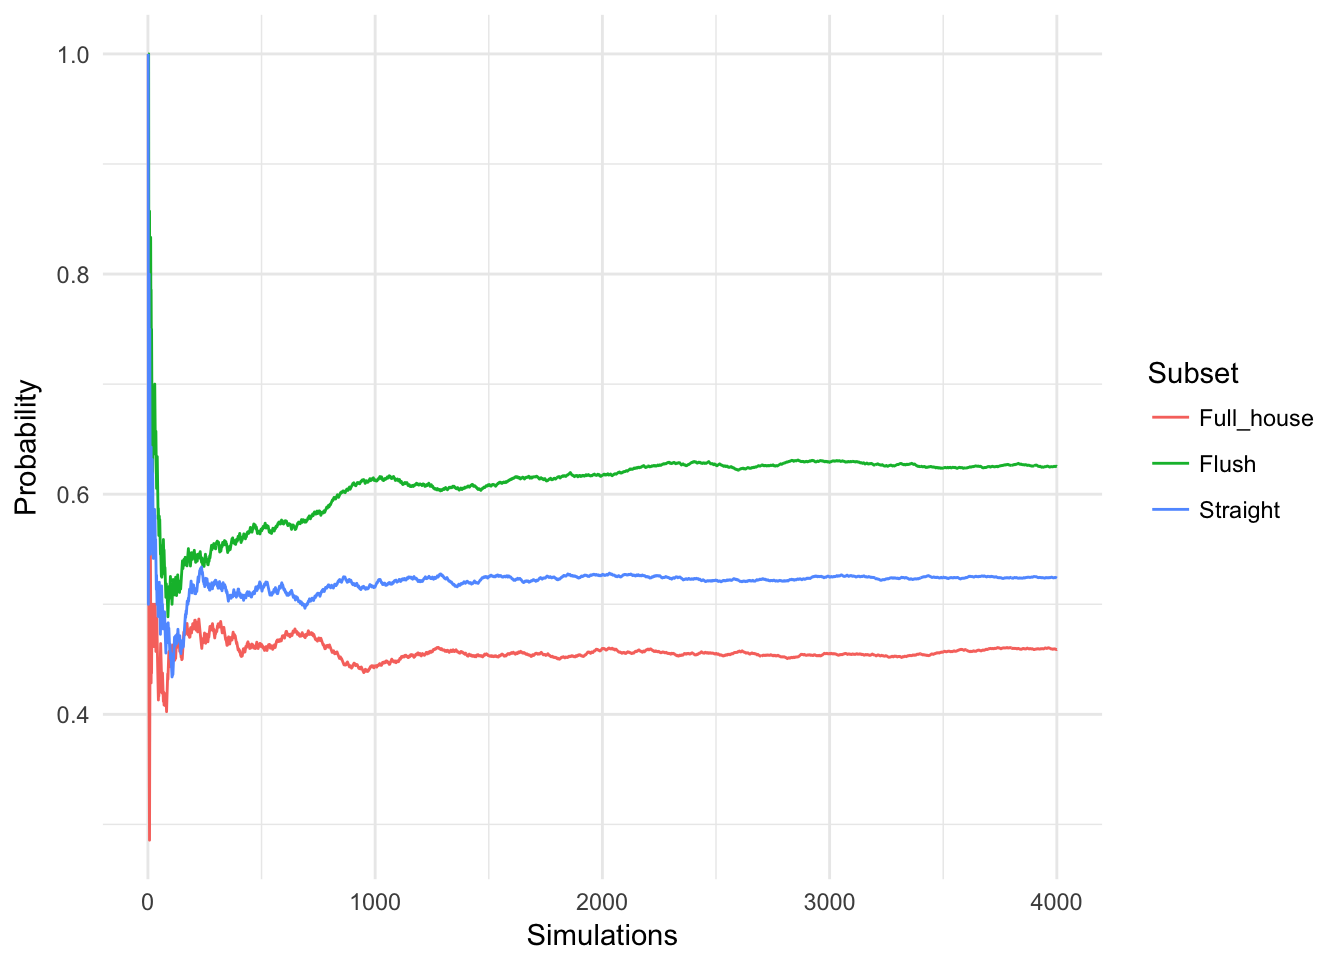
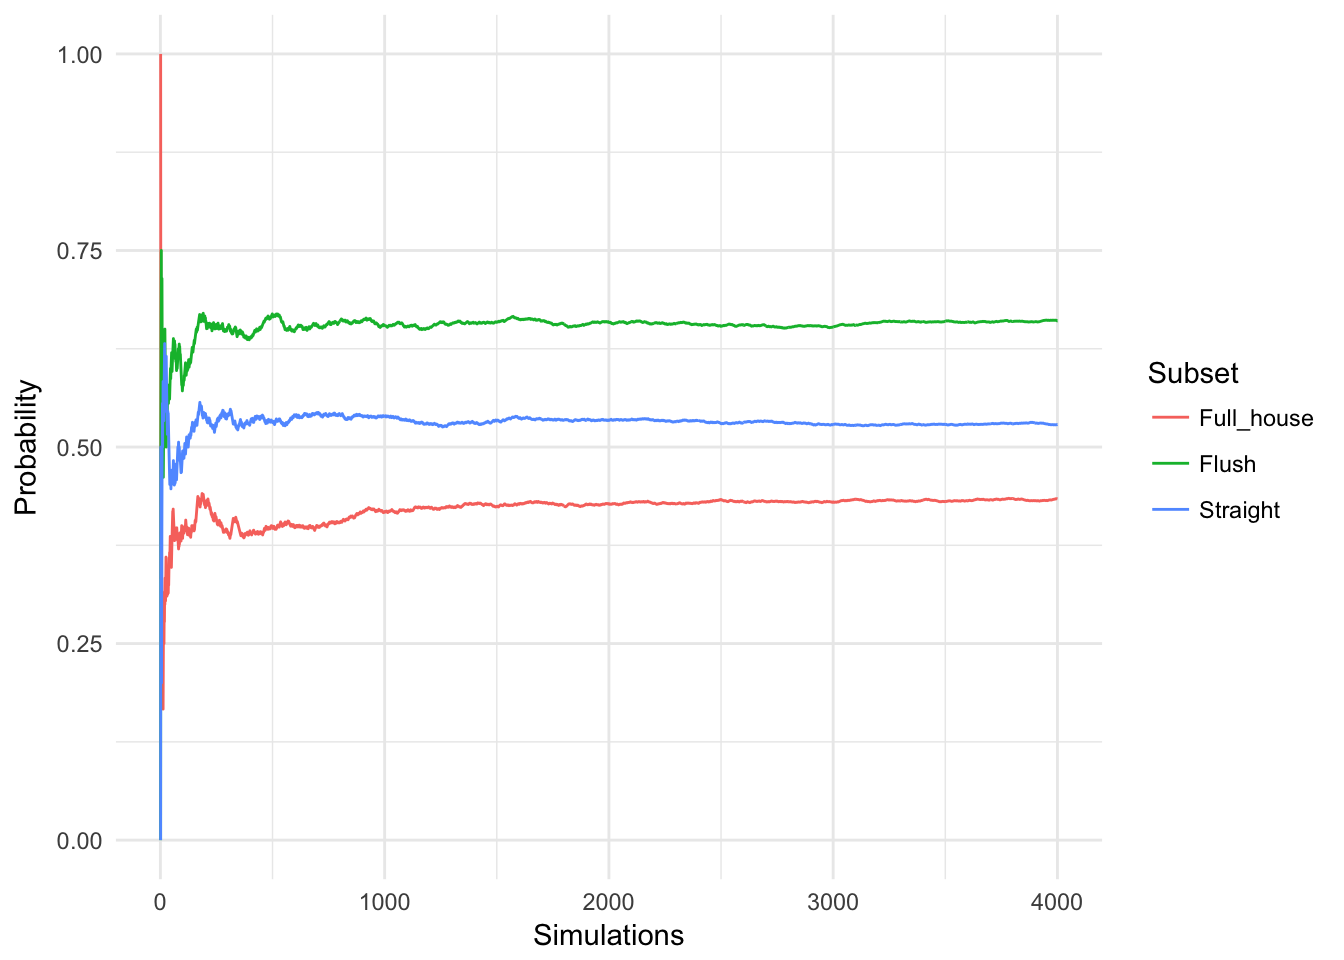
Monte Carlo Casino.2

diff --git a/2018/01/monte-carlo-casino/index.html b/2018/01/monte-carlo-casino/index.html
@@ -1870,16 +1870,16 @@ Games</code></pre>
 <pre><code>## # A tibble: 4,000 x 5
 ##         Player  Pair Three_of_a_kind Four_of_a_kind  Game
 ##         &lt;fctr&gt; &lt;int&gt;           &lt;int&gt;          &lt;int&gt; &lt;int&gt;
-##  1     Alibaba     1               1              0     1
+##  1     Alibaba     2               2              0     1
 ##  2       Baidu     4               0              0     1
-##  3 Chinamobile     1               2              0     1
-##  4        Didi     3               0              0     1
-##  5     Alibaba     3               0              0     2
-##  6       Baidu     4               0              0     2
-##  7 Chinamobile     0               1              0     2
-##  8        Didi     2               1              0     2
-##  9     Alibaba     2               1              0     3
-## 10       Baidu     4               1              0     3
+##  3 Chinamobile     4               0              0     1
+##  4        Didi     3               1              0     1
+##  5     Alibaba     2               0              1     2
+##  6       Baidu     6               0              0     2
+##  7 Chinamobile     3               0              0     2
+##  8        Didi     3               0              0     2
+##  9     Alibaba     3               0              0     3
+## 10       Baidu     3               0              0     3
 ## # ... with 3,990 more rows</code></pre>
 <p>Our friends have been hard at work in playing all these 1000 games … for science!</p>
 <div id="from-simulations-to-probabilities" class="section level2">
@@ -1906,23 +1906,23 @@ Games</code></pre>
 <tbody>
 <tr class="odd">
 <td align="center">0</td>
-<td align="center">69</td>
+<td align="center">88</td>
 <td align="center">0.02</td>
 </tr>
 <tr class="even">
 <td align="center">1</td>
-<td align="center">488</td>
-<td align="center">0.12</td>
+<td align="center">447</td>
+<td align="center">0.11</td>
 </tr>
 <tr class="odd">
 <td align="center">2</td>
-<td align="center">1074</td>
-<td align="center">0.27</td>
+<td align="center">1044</td>
+<td align="center">0.26</td>
 </tr>
 <tr class="even">
 <td align="center">3</td>
-<td align="center">1269</td>
-<td align="center">0.32</td>
+<td align="center">1326</td>
+<td align="center">0.33</td>
 </tr>
 <tr class="odd">
 <td align="center">4</td>
@@ -1931,17 +1931,17 @@ Games</code></pre>
 </tr>
 <tr class="even">
 <td align="center">5</td>
-<td align="center">246</td>
+<td align="center">238</td>
 <td align="center">0.06</td>
 </tr>
 <tr class="odd">
 <td align="center">6</td>
-<td align="center">9</td>
+<td align="center">12</td>
 <td align="center">0.00</td>
 </tr>
 </tbody>
 </table>
-<p>So according to our simulations, 69 games out of the <span class="math inline">\(4 \times 1000\)</span> didn’t have any pairs.</p>
+<p>So according to our simulations, 88 games out of the <span class="math inline">\(4 \times 1000\)</span> didn’t have any pairs.</p>
 <p>These are simple counts, because the hidden pairs in the three/four of a kinds have not been counted. So if we want to count these hidden pairs, we would need to build a new indicator because there is <span class="math inline">\(1\)</span> pair in a three of a kind and <span class="math inline">\(2\)</span> pairs in a four of a kind. So let Three_of_a_kind be the random variable counting the number of three of a kinds in a hand. It can take values in [0,3] and let Four_of_a_kind be the random variable counting the number of four of a kind in a hand. It can take values in [0,2]. Our new indicator is thus</p>
 <p><span class="math display">\[All.Pairs = Pair+Three\_of\_a\_kind+2\cdot Four\_of\_a\_kind\]</span></p>
 <pre class="r"><code>Hidden.PAIR&lt;-Games %&gt;% mutate(
@@ -1958,33 +1958,38 @@ Hidden.PAIR %&gt;% kable(align=&quot;c&quot;)</code></pre>
 </thead>
 <tbody>
 <tr class="odd">
+<td align="center">0</td>
+<td align="center">2</td>
+<td align="center">0.00</td>
+</tr>
+<tr class="even">
 <td align="center">1</td>
-<td align="center">40</td>
+<td align="center">53</td>
 <td align="center">0.01</td>
 </tr>
-<tr class="even">
+<tr class="odd">
 <td align="center">2</td>
-<td align="center">575</td>
+<td align="center">561</td>
 <td align="center">0.14</td>
 </tr>
-<tr class="odd">
-<td align="center">3</td>
-<td align="center">1602</td>
-<td align="center">0.40</td>
-</tr>
 <tr class="even">
+<td align="center">3</td>
+<td align="center">1641</td>
+<td align="center">0.41</td>
+</tr>
+<tr class="odd">
 <td align="center">4</td>
-<td align="center">1395</td>
+<td align="center">1392</td>
 <td align="center">0.35</td>
 </tr>
-<tr class="odd">
-<td align="center">5</td>
-<td align="center">376</td>
-<td align="center">0.09</td>
-</tr>
 <tr class="even">
+<td align="center">5</td>
+<td align="center">331</td>
+<td align="center">0.08</td>
+</tr>
+<tr class="odd">
 <td align="center">6</td>
-<td align="center">12</td>
+<td align="center">20</td>
 <td align="center">0.00</td>
 </tr>
 </tbody>
@@ -2006,22 +2011,22 @@ Hidden.PAIR %&gt;% kable(align=&quot;c&quot;)</code></pre>
 <tr class="odd">
 <td align="right">0</td>
 <td align="right">0.02</td>
-<td align="right">NA</td>
+<td align="right">0.00</td>
 </tr>
 <tr class="even">
 <td align="right">1</td>
-<td align="right">0.12</td>
+<td align="right">0.11</td>
 <td align="right">0.01</td>
 </tr>
 <tr class="odd">
 <td align="right">2</td>
-<td align="right">0.27</td>
+<td align="right">0.26</td>
 <td align="right">0.14</td>
 </tr>
 <tr class="even">
 <td align="right">3</td>
-<td align="right">0.32</td>
-<td align="right">0.40</td>
+<td align="right">0.33</td>
+<td align="right">0.41</td>
 </tr>
 <tr class="odd">
 <td align="right">4</td>
@@ -2031,7 +2036,7 @@ Hidden.PAIR %&gt;% kable(align=&quot;c&quot;)</code></pre>
 <tr class="even">
 <td align="right">5</td>
 <td align="right">0.06</td>
-<td align="right">0.09</td>
+<td align="right">0.08</td>
 </tr>
 <tr class="odd">
 <td align="right">6</td>
@@ -2055,17 +2060,17 @@ Hidden.PAIR %&gt;% kable(align=&quot;c&quot;)</code></pre>
 <tbody>
 <tr class="odd">
 <td align="center">0</td>
-<td align="center">2212</td>
-<td align="center">0.55</td>
+<td align="center">2311</td>
+<td align="center">0.58</td>
 </tr>
 <tr class="even">
 <td align="center">1</td>
-<td align="center">1691</td>
-<td align="center">0.42</td>
+<td align="center">1617</td>
+<td align="center">0.40</td>
 </tr>
 <tr class="odd">
 <td align="center">2</td>
-<td align="center">97</td>
+<td align="center">72</td>
 <td align="center">0.02</td>
 </tr>
 </tbody>
@@ -2117,17 +2122,17 @@ Games %&gt;% mutate(
 <tbody>
 <tr class="odd">
 <td align="center">0</td>
-<td align="center">2164</td>
-<td align="center">0.54</td>
+<td align="center">2264</td>
+<td align="center">0.57</td>
 </tr>
 <tr class="even">
 <td align="center">1</td>
-<td align="center">1737</td>
-<td align="center">0.43</td>
+<td align="center">1659</td>
+<td align="center">0.41</td>
 </tr>
 <tr class="odd">
 <td align="center">2</td>
-<td align="center">99</td>
+<td align="center">77</td>
 <td align="center">0.02</td>
 </tr>
 </tbody>
@@ -2144,15 +2149,15 @@ Games %&gt;% mutate(
 </tr>
 <tr class="even">
 <td align="left">Three_of_a_kinds</td>
-<td align="right">0.49</td>
+<td align="right">0.47</td>
 </tr>
 <tr class="odd">
 <td align="left">Full_houses</td>
-<td align="right">0.46</td>
+<td align="right">0.43</td>
 </tr>
 <tr class="even">
 <td align="left">Four_of_a_kinds</td>
-<td align="right">0.04</td>
+<td align="right">0.03</td>
 </tr>
 </tbody>
 </table>
@@ -2184,16 +2189,16 @@ Games.suit</code></pre>
 <pre><code>## # A tibble: 4,000 x 5
 ##         Player Flush Flushx2 Flushes  Game
 ##         &lt;fctr&gt; &lt;int&gt;   &lt;int&gt;   &lt;dbl&gt; &lt;int&gt;
-##  1     Alibaba     1       0       1     1
+##  1     Alibaba     0       0       0     1
 ##  2       Baidu     1       0       1     1
-##  3 Chinamobile     1       0       1     1
-##  4        Didi     0       0       0     1
-##  5     Alibaba     1       0       1     2
+##  3 Chinamobile     2       0       2     1
+##  4        Didi     1       0       1     1
+##  5     Alibaba     0       0       0     2
 ##  6       Baidu     1       0       1     2
 ##  7 Chinamobile     1       0       1     2
 ##  8        Didi     0       0       0     2
-##  9     Alibaba     1       0       1     3
-## 10       Baidu     1       0       1     3
+##  9     Alibaba     0       0       0     3
+## 10       Baidu     0       0       0     3
 ## # ... with 3,990 more rows</code></pre>
 <pre class="r"><code>Games.suit %&gt;% group_by(Flushes) %&gt;% summarise(
   Odds=n()/(4*Simulations)
@@ -2208,15 +2213,15 @@ Games.suit</code></pre>
 <tbody>
 <tr class="odd">
 <td align="right">0</td>
-<td align="right">0.37</td>
+<td align="right">0.34</td>
 </tr>
 <tr class="even">
 <td align="right">1</td>
-<td align="right">0.57</td>
+<td align="right">0.60</td>
 </tr>
 <tr class="odd">
 <td align="right">2</td>
-<td align="right">0.05</td>
+<td align="right">0.06</td>
 </tr>
 </tbody>
 </table>
@@ -2264,19 +2269,19 @@ Games.straight %&gt;% group_by(Player) %&gt;% summarise(
 <tbody>
 <tr class="odd">
 <td align="left">Alibaba</td>
-<td align="right">0.53</td>
+<td align="right">0.52</td>
 </tr>
 <tr class="even">
 <td align="left">Baidu</td>
-<td align="right">0.52</td>
+<td align="right">0.56</td>
 </tr>
 <tr class="odd">
 <td align="left">Chinamobile</td>
-<td align="right">0.52</td>
+<td align="right">0.51</td>
 </tr>
 <tr class="even">
 <td align="left">Didi</td>
-<td align="right">0.52</td>
+<td align="right">0.53</td>
 </tr>
 </tbody>
 </table>
@@ -2298,27 +2303,27 @@ Games.straight %&gt;% group_by(Player) %&gt;% summarise(
 <tbody>
 <tr class="odd">
 <td align="left">Three of a kind : e.g. AAA</td>
-<td align="right">0.49</td>
+<td align="right">0.47</td>
 </tr>
 <tr class="even">
 <td align="left">Straight : e.g. (10,J,Q,K,A)</td>
-<td align="right">0.52</td>
+<td align="right">0.53</td>
 </tr>
 <tr class="odd">
 <td align="left">Flush : e.g. ♠♠♠♠♠</td>
-<td align="right">0.63</td>
+<td align="right">0.66</td>
 </tr>
 <tr class="even">
 <td align="left">Full house : e.g. KKK+QQ</td>
-<td align="right">0.46</td>
+<td align="right">0.43</td>
 </tr>
 <tr class="odd">
 <td align="left">Four of a kind : e.g. 2222</td>
-<td align="right">0.04</td>
+<td align="right">0.03</td>
 </tr>
 </tbody>
 </table>
-<p>I’d except that the subset with a higher rank would come less frequently but as these simulations show, Flushes that can beat Straights are somehow relatively more frequent.</p>
+<p>I’d expect that the subset with a higher rank would come less frequently but as these simulations show, Flushes that can beat Straights are somehow relatively more frequent.</p>
 <p>But again, these simulations don’t take into account the fact that players mostly don’t want to break full houses or four of a kinds to make a flush.</p>
 <p>Thanks for reading, happy new year and I hope that you liked it!</p>
 <hr />
